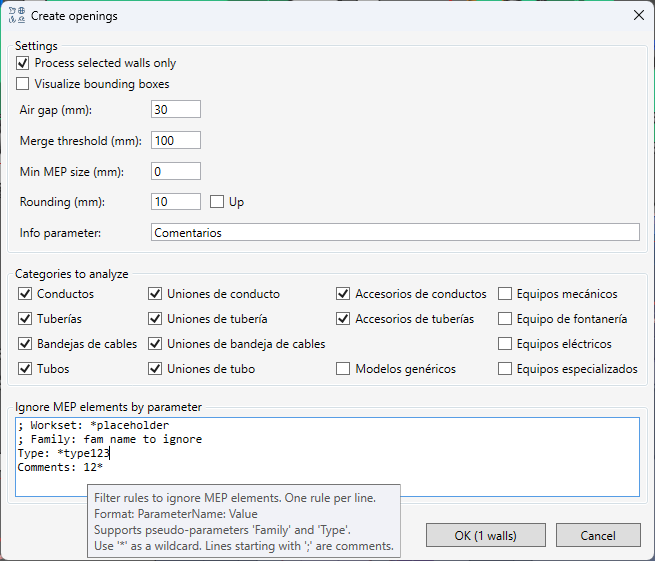
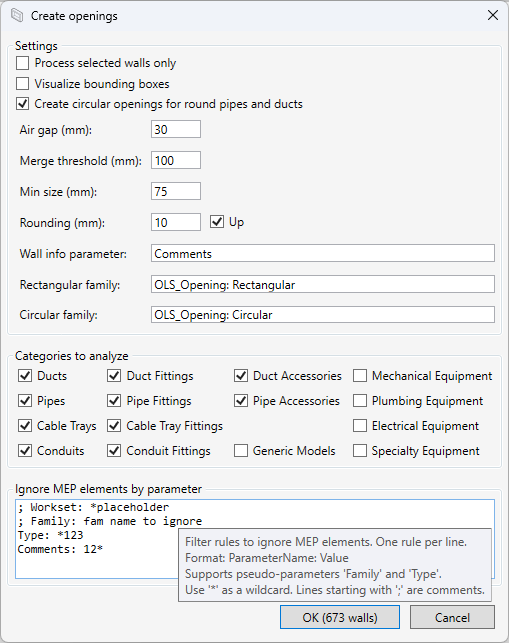
26.19

Changed region(s): [[0.0, 0.0, 1.0, 1.0], [0.4126, 0.3333, 0.4715, 0.3636], [0.0, 0.9697, 0.0295, 1.0]]

diff --git a/_i18n/es/docs/create-openings.md b/_i18n/es/docs/create-openings.md
@@ -41,6 +41,7 @@ Al ejecutar el comando, se abre un cuadro de diálogo de configuración.
     *   Marque las casillas de las categorías de sistemas MEP para las que se deben crear vanos.
 
 3.  **Parámetros de vanos**:
+    *   **Crear vanos circulares para tuberías y conductos redondos**: Si se marca, las intersecciones individuales con tuberías y conductos redondos crean vanos circulares. Si no se marca, crean vanos rectangulares. Los vanos combinados siempre son rectangulares. La holgura, el aislamiento y el redondeo se tienen en cuenta al calcular el tamaño del vano circular.
     *   **Holgura (mm)**: Un margen añadido a las dimensiones de cada elemento MEP. Aumenta el tamaño final del vano. *Por defecto: 30 mm.*
     *   **Umbral de unión (mm)**: El ancho máximo de un tabique entre vanos. Si el espacio entre los bordes de dos vanos adyacentes es menor que este valor, se unirán en uno solo. *Por defecto: 100 mm.*
     *   **Parámetro para información**: El nombre del parámetro de texto en el muro donde se escribirá la lista final de todos los tamaños de vanos. *Por defecto: Comments.*
@@ -94,6 +95,8 @@ La columna `Descripción` tiene una estructura de 5 partes:
     *   *Ejemplo: `DELETED | w779 | op456 | | | | | Merged into: 999`*
 
 ## Registro de Trabajo (Work Log)
+
+2026-09-23 Se añadió la opción de crear vanos circulares para tuberías y conductos redondos. Para calcular el tamaño de las tuberías se utiliza ahora el diámetro exterior. El tamaño mínimo se comprueba en el grupo combinado, en lugar de descartar elementos pequeños antes de unirlos.
 
 2026-07-21 Transición a Familias: En lugar de "huecos de muro" nativos, la herramienta ahora coloca familias basadas en cara (Face-Based) para preservar anotaciones y etiquetas.
 

diff --git a/_i18n/en/docs/create-openings.md b/_i18n/en/docs/create-openings.md
@@ -41,6 +41,7 @@ When the command is launched, a settings dialog box opens.
     *   Mark the checkboxes for the MEP system categories for which openings need to be created.
 
 3.  **Opening Parameters**:
+    *   **Create circular openings for round pipes and ducts**: When checked, individual intersections with round pipes and round ducts create circular openings. When unchecked, they create rectangular openings. Merged openings are always rectangular. Air gap, insulation, and rounding are included in the circular opening size.
     *   **Air gap (mm)**: A buffer added to the dimensions of each MEP element. This increases the final size of the opening. *Default: 30 mm.*
     *   **Merge threshold (mm)**: The maximum width of a wall section between openings. If the gap between the edges of two adjacent openings is less than this value, they will be merged into one. *Default: 100 mm.*
     *   **Info Parameter**: The name of the text parameter in the wall where the final list of all opening sizes will be written. *Default: Comments.*
@@ -94,6 +95,8 @@ The `Description` column has a 5-part structure:
     *   *Example: `DELETED | w779 | op456 | | | | | Merged into: 999`*
 
 ## Work Log
+
+2026-09-23 Added circular openings for round pipes and ducts. Pipe sizing now uses the outside diameter. The minimum size threshold is now checked against the merged group instead of filtering out individual small elements before merging.
 
 2026-07-21 Transition to Families: Instead of native "wall openings", the tool now places Face-Based families to preserve annotations and tags.
 

diff --git a/_includes/changelog.md b/_includes/changelog.md
@@ -1,4 +1,9 @@
-## [26.18] — 2026-09-22
+## [26.19] — 2026-09-23
+*Create Openings*: Pipe sizing now uses the outside diameter.
+*Create Openings*: The minimum size threshold is now applied to merged opening groups, so multiple small MEP elements can jointly qualify for an opening.
+*Create Openings*: Added optional circular openings for round pipes and ducts.
+
+## [26.18] — 2026-09-22
 *Find empty parameters*: Added a command for checking empty element and type parameters in the current model and loaded links. Supports configurable categories and exports a summary Excel report.
 
 ## [26.17] — 2026-09-18
